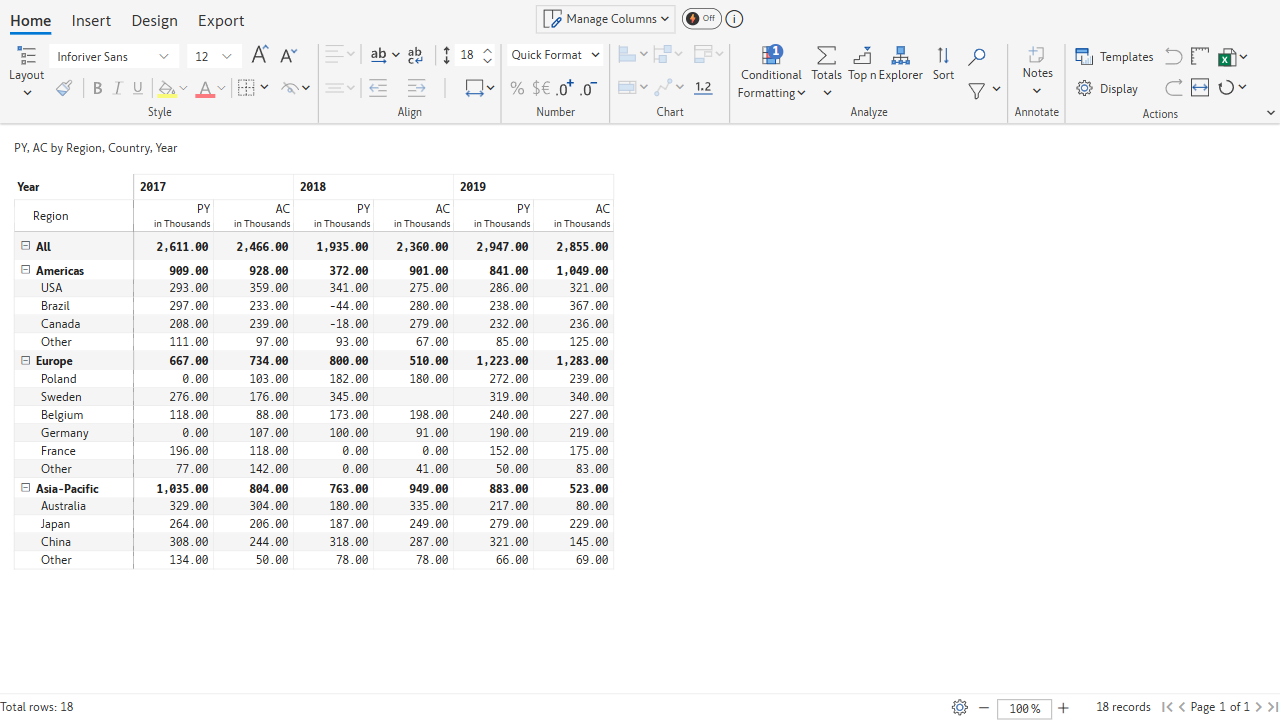
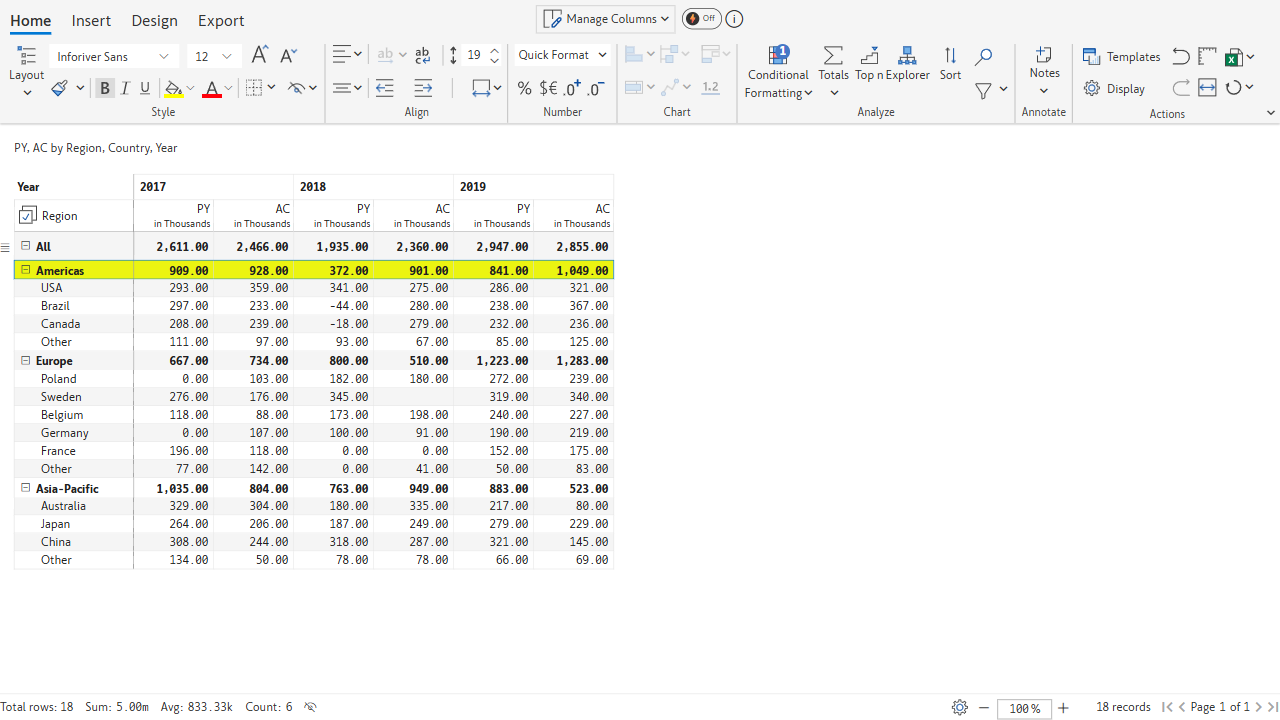
feat:check the background color apply in all cell

diff --git a/codeceptjs_AT-2/pages/inforiver/tableColor.js b/codeceptjs_AT-2/pages/inforiver/tableColor.js
@@ -2,59 +2,40 @@ const { I } = inject();
 
 const tableColor = {
 
-    // selectTableRow: (region) => `(//span[text()='${region}']/ancestor::div[@role='cell'])[1]`,
-      selectTableRow: (region) => `(//span[text()='${region}']/ancestor::div[contains(@id,'table-row-')])[1]`,
-    fillColor: '((//div[contains(@class,"editor-colorpicker-icon")])[1]/i)[1]',
+  selectTableRow: (region) => `(//span[text()='${region}']/ancestor::div[contains(@id,'table-row-')])[1]`,
+  fillColor: '((//div[contains(@class,"editor-colorpicker-icon")])[1]/i)[1]',
 
 
 
-    async openInforiver(region) {
-        // await I.click(this.selectTableRow(region));
-        const rowXPath = this.selectTableRow(region);
-        await I.waitForElement(rowXPath, 5);
-        await I.scrollTo(rowXPath);
-        await I.click(rowXPath);
-        await I.click(this.fillColor);
-        await I.say('color apply');
-        await I.wait(2)
-    },
-
-    // async getRowCells(region) {
-
-    //     const fullId = await I.grabAttributeFrom(`//span[text()='${region}']/ancestor::div[contains(@id,'table-row-')]`, 'id');
-
-    //     const rowPrefix = fullId.split('_')[0];
-
-    //     const rowCellsXPath = `//div[contains(@id,'${rowPrefix}')]`;
+  async openInforiver(region) {
+    const rowXPath = this.selectTableRow(region);
+    await I.waitForElement(rowXPath, 5);
+    await I.click(rowXPath);
+    await I.click(this.fillColor);
+    await I.say('color apply');
+    await I.wait(2)
+  },
 
 
-    //     const count = await I.grabNumberOfVisibleElements(rowCellsXPath);
-    //     for (let i = 1; i <= count; i++) {
-    //         const cellXPath = `(${rowCellsXPath})[${i}]`;
-    //         const bgColor = await I.grabCssPropertyFrom(cellXPath, 'background-color');
-    //         console.log(`Cell ${i} → BG Color: ${bgColor}`);
-    //     }
-    //     await I.say(`Fetched all ${count} cells for row: ${region}`);
+  async verifyRowColor(region) {
+    const fullId = await I.grabAttributeFrom(this.selectTableRow(region), 'id');
+    const rowId = fullId.split('_')[0];
 
-    // }
+    console.log("rowPrefix", rowId)
+    const rowCellsXPath = `//div[contains(@id,'${rowId}')]`;
 
-    async verifyRowColor(region) {
-        const fullId = await I.grabAttributeFrom(this.selectTableRow(region), 'id');
-        const rowPrefix = fullId.split('_')[0]; // => table-row-1
-    
-        const rowCellsXPath = `//div[contains(@id,'${rowPrefix}')]`;
-        const count = await I.grabNumberOfVisibleElements(rowCellsXPath);
-        console.log("count",count)
-        for (let i = 1; i <= count; i++) {
-          const cellXPath = `(${rowCellsXPath})[${i}]`;
-          const bgColor = await I.grabCssPropertyFrom(cellXPath, 'background-color');
-          I.say(`🔍 Cell ${i} BG: ${bgColor}`);
-    
+    console.log("rowCellsXPath", rowCellsXPath)
+    const count = await I.grabNumberOfVisibleElements(rowCellsXPath);
+    console.log("count", count)
+    for (let i = 1; i <= count; i++) {
+      const cellXPath = `(${rowCellsXPath})[${i}]`;
+      const bgColor = await I.grabCssPropertyFrom(cellXPath, 'background-color');
+      I.say(`Cell ${i} BG: ${bgColor}`);
 
-        }
-    
-        await I.say(` All ${count} cells in row '${region}' have background color:`);
-      }
+    }
+
+    await I.say(` All ${count} cells in row '${region}' have background color:`);
+  }
 
 }
 module.exports = tableColor;

diff --git a/codeceptjs_AT-2/tests/inforiver_test.js b/codeceptjs_AT-2/tests/inforiver_test.js
@@ -2,7 +2,7 @@ Feature('inforiver change the row color');
 const tableColor = require('../pages/inforiver/tableColor');
 
 Scenario('open page', async ({ I }) => {
-    let region = 'Americas'
+    let region = 'Europe'
     await I.amOnPage('/');
     await tableColor.openInforiver(region);
     await tableColor.verifyRowColor(region,);
